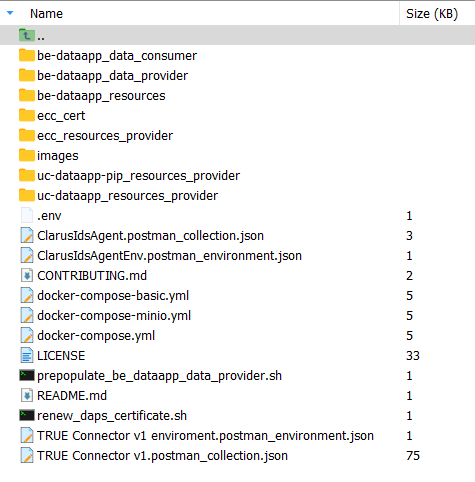
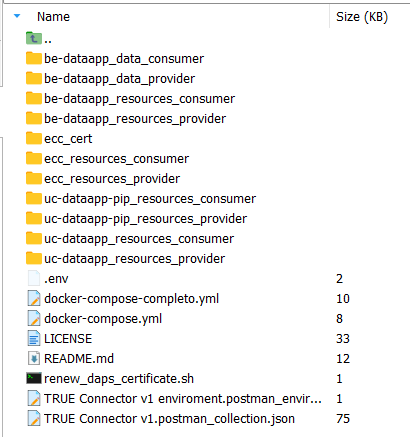
Readme updated

Changed region(s): [[0.0, 0.0, 1.0, 0.9817], [0.8195, 0.4462, 0.9073, 0.9817]]

diff --git a/README.md b/README.md
@@ -19,14 +19,15 @@ This repository contains the docker-compose file and the configuration files and
       - [Datapp properties configuration](#datapp-properties-configuration)
       - [Environment variables configuration](#environment-variables-configuration)
     - [Start services](#start-services)
-  - [How to share datasets within Clarus Data Space](#how-to-share-datasets-within-clarus-data-space)
+  - [How to share datasets through Clarus Data Space](#how-to-share-datasets-through-clarus-data-space)
   - [How to Query MetadataBroker](#how-to-query-metadatabroker)
-
+  - [How to consume data through Clarus Data Space](#how-to-consume-data-through-clarus-data-space)
+  
 ## Requirements
 - Linux machine with public IP with 8 GB RAM and 70 GB Disk 
 - Docker version 23.0.5 or above installed
 - Docker-compose version 1.29.2 or above installed
-- Open ports: 8086, 2223 & 8082
+- Open ports: 8086, 2223 
 ## Components
 Next figure shows the components that are part of the clarus_ids_kit.
 
@@ -34,13 +35,15 @@ Next figure shows the components that are part of the clarus_ids_kit.
 
 A brief description of the clarus_ids_kit components:
 
-- TRueConnector A complete description of TrueConnector can be found [here](https://github.com/Engineering-Research-and-Development/true-connector)
+- TRueConnector Provider: TRUE Connector configured a provider. clarus_ids_kit users at pilots edge uses this connector to share datasets through Clarus Data Space. clarus_ids_kit users (dags) at MLOps platform uses this connector to share inference service metadata through Clarus Data Space.  A complete description of TrueConnector can be found [here](https://github.com/Engineering-Research-and-Development/true-connector)
 
-- clarus_ids_agent: service that provides diferent endpoints to make easier the management of TRueConnector. It is also in charge of moving datasets from MinIO to dataapp datalake.
+- TRueConnector Consumer: TRUE Connector configured a consumer. Clarus_ids_kit users at pilots edge uses this connector to get inference service metadata through Clarus DataSpace. Clarus_ids_kit users (dag pipelines) at MLOps platform uses this connector to get datasets through Clarus DataSpace.  
 
-- clarus-hmi: Frontend that consumes clarus_ids_agent endpoints. It allows the user to register, delete and view the metamodel for shared datasets within the Clarus Data Space.
+- clarus_ids_agent: service that provides diferent endpoints to make easier the management of TRueConnector. clarus_ids_kit requests ecc_provider to register datasets ot service inference metadata. It is also in charge of moving datasets from MinIO to dataapp datalake. clarus_ids_kit requests be-dataapp to transfer datasets or inference service metadata from another connector.
 
-- MinIO server: Optional component that can be used by pilot to save their datasets instead of using its own.
+- clarus-hmi: Frontend that consumes clarus_ids_agent endpoints. It allows the user to register, delete and view the metamodel for shared datasets thrpugh the Clarus Data Space.
+
+- MinIO server: Optional component that can be used by pilots to save their datasets instead of using their own.
   
 ## Deployment 
 The content needed for the deployment is available in the Clarus github repository https://github.com/CLARUS-Project and the images used are in the Clarus docker hub repository https://hub.docker.com/repositories/clarusproject.
@@ -54,22 +57,22 @@ Once repository is cloned you should see next folder tree
 
 ![Folders_and_files](images/Folders_and_files.png)
 
-- be-dataapp_data_consumer: Not used currently
-- be-dataapp_data_provider: Folder used as datalake by the SFTP server started by the dataapp TRueConnector component.
-- be-dataapp_resources: Folder where the properties files used by the dataapp are located
+- be-dataapp_data_consumer: Folder used to save the data files consumed from another connector
+- be-dataapp_data_provider: Folder used as datalake by the SFTP server started by the dataapp TRueConnector component. This folder is used to save files to share.
+- be-dataapp_resources_consumer: Folder where the properties files used by the consumer dataapp are located
+- be-dataapp_resources_provider: Folder where the properties files used by the provider dataapp are located
 - ecc_cert: Folder to save the certificates keystore and truststore
-- ecc_reources_provider: Folder where the properties files used by the ecc are located
-- images: Not relevant. Images for the Readme file
-- uc-dataapp_pip_resources_provider: Folder where the properties files used by the uc-dataapp-pip-provider are located. Currently, usage control components are not used. 
+- ecc_resources_consumer: Folder where the properties files used by the consumer ecc are located
+- ecc_resources_provider: Folder where the properties files used by the provider ecc are located
+- uc-dataapp_pip_resources_consumer: Folder where the properties files used by the uc-dataapp-pip-consumer are located. Currently, usage control components are not used. 
+- uc-dataapp_pip_resources_provider: Folder where the properties files used by the uc-dataapp-pip-provider are located. Currently, usage control components are not used.
+- uc-dataapp_resources_consumer: Folder where the properties files used by the uc-dataapp-consumer are located. Currently, usage control components are not used. 
 - uc-dataapp_resources_provider: Folder where the properties files used by the uc-dataapp-provider are located. Currently, usage control components are not used.
 - .env: Enviromental: variables needed to configure all the components
-- docker-compose.yml: File to start all the services. By default, it contains same services as docker-compose-basic.yml
-- docker-compose-basic.yml: File with the basic services. (ecc-provider,uc-dataapp-provider,be-dataapp-provideruc-dataapp-pip-provider,clarus_ids_agent)
-- docker-compose-minio.yml: MinIO server is added to the basic services
-- prepopulate_be_dataapp_data_provider.sh: Not used currently
+- docker-compose-completo.yml: File to start all the services including usage control components
+- docker-compose.yml: File to start all the services without usage control components
 - renew_daps_certificate.sh: script to renew the Daps certificate when it expires.
-- ClarusIdsAgent.postman_collection: Collection that can be imported in Postman tool to make easier the registration of clarus assets. These requests will be used by the clarus-hmi. It is possible to use Postman instead of clarus-hmi. 
-- TRUE Connector v1.postman_collection: Collection that can be imported in Postman tool to manage directly the TRueConnector. Not needed if you use the ClarusIdsAgent.postman_collection.
+- TRUE Connector v1.postman_collection: Collection that can be imported in Postman tool to manage directly the TRueConnector. 
 
   
 **Make sure permissions for folder ecc_cer & be-dataapp_data_provider are set to 777**
@@ -144,13 +147,7 @@ Needed when the interaction with the MetadaBroker is enabled.
 ### Configuration
 Several configuration files are needed to adjust the behaviour of the various TrueConnector components.  In addition, an environment variables file eases this configuration.
 #### Ecc properties configuration
-The ecc configuration files can be found in the ecc_resources_provider folder (application-docker-properties).  This TRueConnector execution core (ecc) is configured to use the DAPS of the Clarus dataspace (mvds-clarus.eu) as identity provider. This ecc is also configured to use the web sockets protocol as ids protocol. This TRueConnector is also configured as a provider connector. The default values of these files are fine and no modification is required.
-
-It is possible to configure this TRueConnector as a consumer connector. To do that it is only needed to modify a parameter in the configuration file  as below.
-````
-#Define if the connector is used as receiver or sender
-application.isReceiver=false
-````
+The ecc configuration files can be found in the ecc_resources_provider and ecc_resources_consumer folders. (application-docker-properties).  This TRueConnector execution core (ecc) is configured to use the DAPS of the Clarus dataspace (mvds-clarus.eu) as identity provider. This ecc is also configured to use the web sockets protocol as ids protocol. 
 
 It is not possible to update in the MetadataBroker the connector self-description using the API provided by the TrueConnector proxy because in Clarus the connector is using wss protocol. The option is to enable the interaction with the MetadaBroker by setting the broker parameter "registrateOnStartup" to true. This means that every time the ecc starts up, the self description of the connector will be updated in the Metadabroker. This means that whenever resources are updated in the connector, the ecc must be relaunched in order to have the Metadabroker updated as well. 
 
@@ -161,8 +158,8 @@ application.selfdescription.brokerURL=${BROKER_URL}
    ```
 
 #### Datapp properties configuration
-The dataapp configuration files can be found in the be-dataapp_resources folder. The default values are fine and only the settings regarding the SFTP server need to be set in the file application-docker.properties.
-  - The public IP where the SFTP server is available needs to be set (public IP of the machine where the conector is deployed). 
+The dataapp configuration files can be found in the be-dataapp_resources_provider and be-dataapp_resources_consumer folders. The default values are fine and only the settings regarding the SFTP server need to be set in the file application-docker.properties.
+  - The public IP where the SFTP server is available needs to be set in the be-dataapp_resources_provider (public IP of the machine where the conector is deployed). 
   
    ```
     #SFTP settings
@@ -186,11 +183,20 @@ ALIAS=<<ALIAS>>
 - DAPS settings. Name, password and alias for the certificate used to register in DAPS. See [DAPS certificate generation](#daps-certificate-generation) section. The DAPS CERTIFICATE ALIAS shall be the ***preferred_name*** used in step 3 of the section.
 
 ````
-#DAPS certificate configuration
-#When DAPS enabled, set next variables with DAPS certificate. AWS edge machine as an example
+#DAPS certificate configuration for provider
+#When DAPS enabled, set next variables with DAPS certificate. 
 PROVIDER_DAPS_KEYSTORE_NAME=<<DAPS CERTIFICATE>>
 PROVIDER_DAPS_KEYSTORE_PASSWORD=<<DAPS CERTIFICATE PASSWORD>>
 PROVIDER_DAPS_KEYSTORE_ALIAS=<<DAPS CERTIFICATE ALIAS>>
+
+ ````
+
+ ````
+#DAPS certificate configuration for consumer
+#When DAPS enabled, set next variables with DAPS certificate. 
+CONSUMER_DAPS_KEYSTORE_NAME=<<DAPS CERTIFICATE>>
+CONSUMER_DAPS_KEYSTORE_PASSWORD=<<DAPS CERTIFICATE PASSWORD>>
+CONSUMER_DAPS_KEYSTORE_ALIAS=<<DAPS CERTIFICATE ALIAS>>
 
  ````
 
@@ -235,7 +241,7 @@ You shall see next services up:
 
 ![clarus_ids_kit_services](images/clarus_ids_kit_services.png)
 
-## How to share datasets within Clarus Data Space
+## How to share datasets through Clarus Data Space
 
 Once the services are up and running clarus-hmi frontend is avilable in port 3000. Use an internet browser and navigate to:
 
@@ -298,3 +304,15 @@ The result will be a list of Offered resources that are contained inside the cat
 
 Finally the offered resources description can be explored looking for one specific resource ID
 ![meta3](images/Meta3.png)
+
+
+## How to consume data through Clarus Data Space
+
+clarus_ids_agent provides an API through port 8082 to init the sequence of requests needed to consume data using TRUEConnector consumer. This proccess covers the contract negotiation, contract agreement an finally data transfer.
+
+A user can execute this query http://clarus_ids_agent host IP:8082/api/v2/consumer/asset to get a given resource. 
+![api1](images/ids_agent_api.png)
+The payload contains information about the resource identifier and the provider connector ip.
+
+Read task in a dag, at MLOPs platform side, uses this API to get datasets through Clarus Data Space
+clarus_agent_node in clarus_inference_kit , at pilots side, uses this API to get the inference service metadata through Clarus Data Space and to find out from where to download the inference service.
